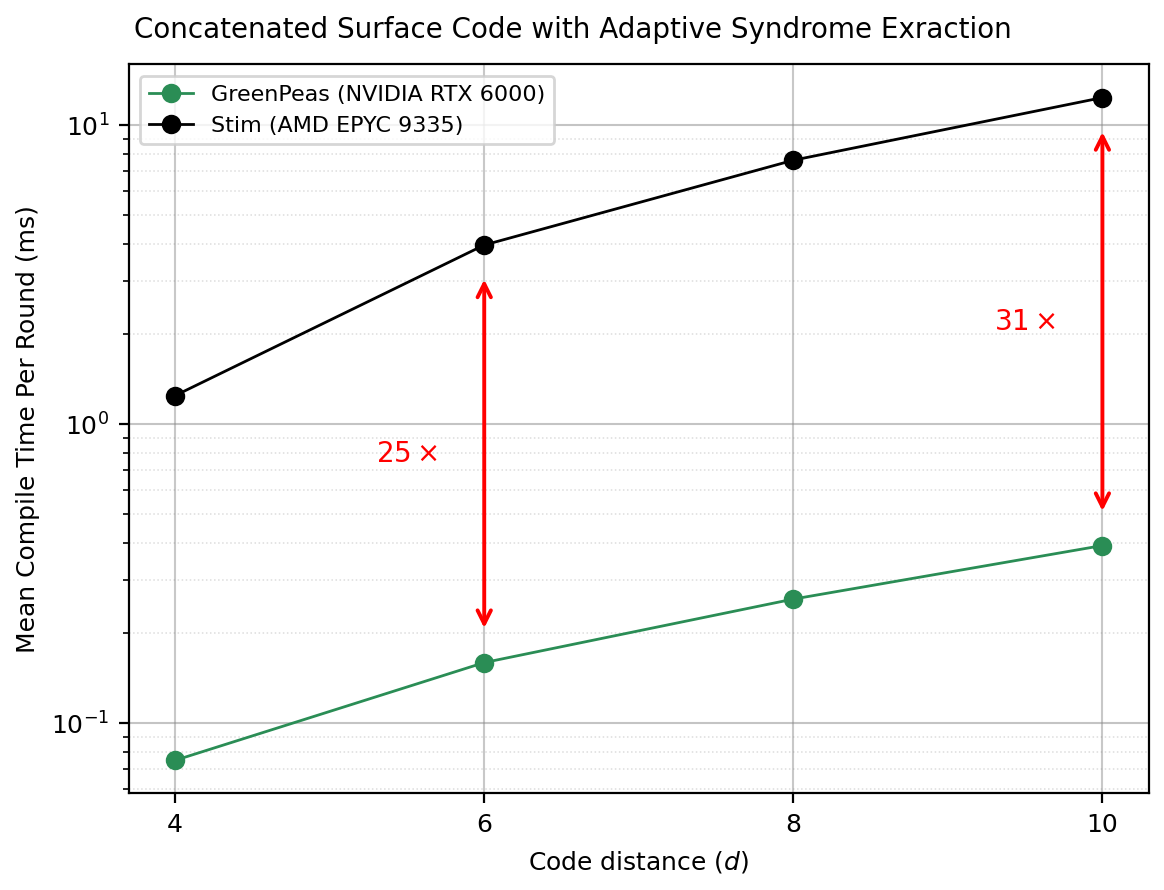
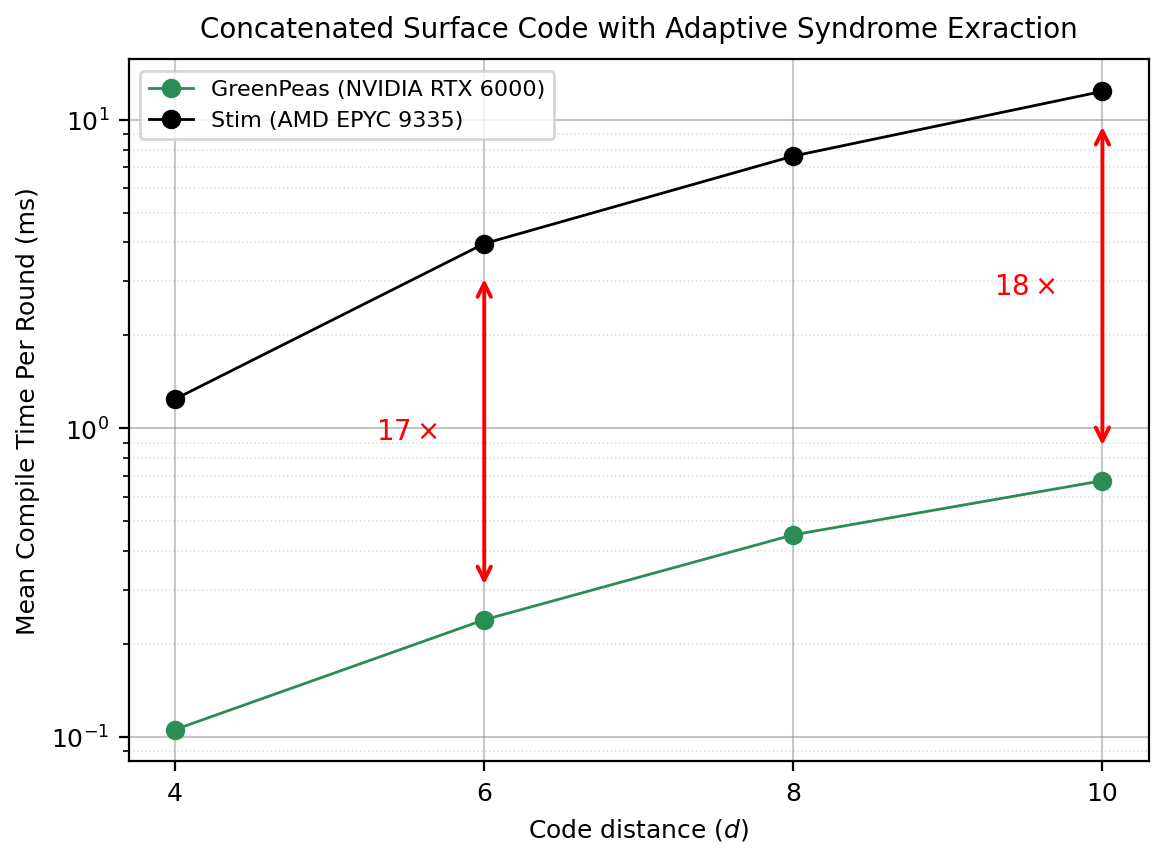
Updates to README image

diff --git a/README.md b/README.md
@@ -6,7 +6,9 @@ GreenPeas builds DEMs just-in-time so decoders can track mid-circuit branching a
 
 It is orders of magnitude faster than standard CPU methods (see [paper](https://arxiv.org/abs/2604.16613)).
 
-<img src="data/images/stim_comparison.png" width="650" alt="Speedup of GreenPeas vs Stim">
+<p align="center">
+  <img src="data/images/stim_comparison.png" width="650" alt="Speedup of GreenPeas vs Stim">
+</p>
 
 ## Quick start
 
